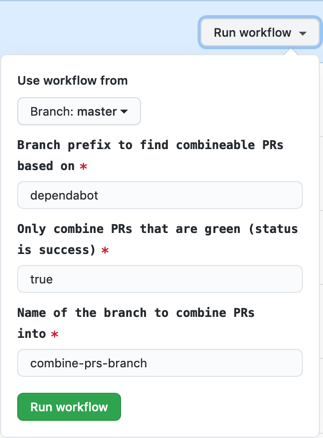
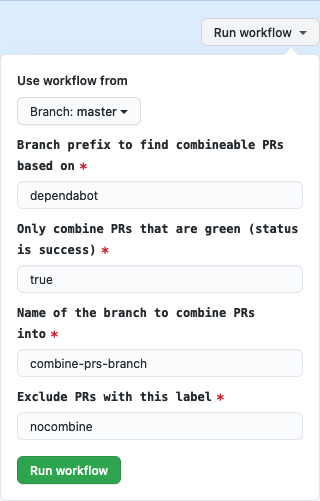
Update readme and screenshot with 'nocombine' excluded label

diff --git a/README.md b/README.md
@@ -11,8 +11,9 @@ Then on GitHub, click the 'Actions' tab at the top of your repository, then unde
 
 # Customization
 The workflow uses only the [actions/github-script](https://github.com/actions/github-script/) and [actions/checkout](https://github.com/actions/checkout/) actions published by GitHub.
-As you can see from the image you can easily set another branch prefix for matching, and choose whether to only include branches that are green (have the 'success' status on GitHub, e.g. from successful CI) - this is the default.
-If you don't run checks, then set this setting to false, since a PR with no checks will have a status of 'pending' rather than 'success'.
+As you can see from the image you can easily set another branch prefix for matching, and choose whether to only include branches that are green (have the 'success' status on GitHub, e.g. from successful CI) - this is the default. If you don't run checks, then set this setting to false, since a PR with no checks will have a status of 'pending' rather than 'success'.
+
+Finally, you can set a label on PRs that you want to exclude when combining PRs - by default this label is 'nocombine'. For example this can be handy if you have a single PR causing merge conflicts (see Limitations below) - in that case you can exclude that PR by adding the label, and still combine the rest of the PRs.
 
 You are also welcome to modify the code to your needs if you need more customization than that (for example it currently doesn't work with forks, only branches within the same repo).
 
@@ -23,3 +24,5 @@ This typically happens if they share some common third dependency - for example 
 
 The "correct" solution here is to add both dependencies together, then let the package manager resolve the dependencies to hopefully find a version of C to put in the `.lock` file that will satisfy both A and B.
 If you find yourself in need of this, then this workflow won't help you, and you should consider switching to a dependency update service that will update dependencies together like that (at the moment *Dependabot* does not, but *Depfu* and *Renovate* do).
+
+If it's only a single PR out of several that is causing merge issues, you can use the label 'nocombine' (see above) to merge the others together, then merge the last one alone.
